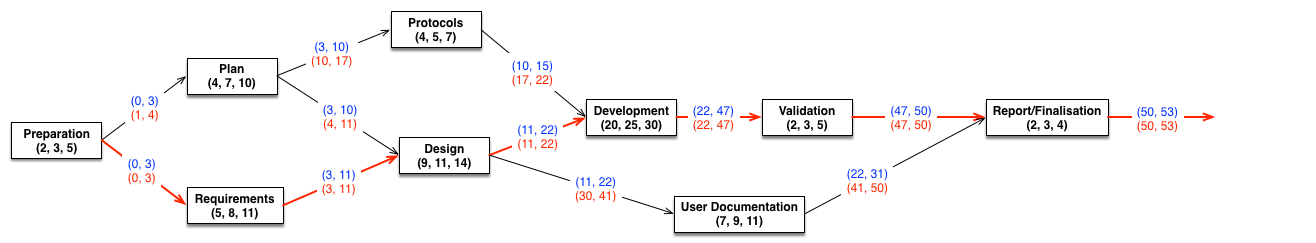
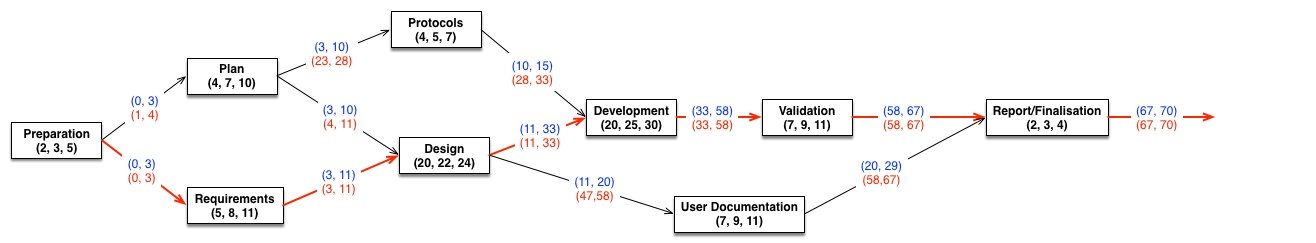
fix pert chart

diff --git a/quality-manual/documentation/project-plan/task-times.md b/quality-manual/documentation/project-plan/task-times.md
@@ -21,15 +21,14 @@ This document gives an approximate optimistic-realistic-pessimistic estimation f
 | Non-Functional           | 3          | 6         | 9           |
 | Domain                   | 1          | 2         | 3           |
 | __Design__               |            |           |             |
-| High-Level               | 4          | 6         | 9           |
-| Low-Level                | 9          | 11        | 14          |
+| High -> Low-Level        | 20         | 22        | 24          |
 | __Development__          |            |           |             |
 | Programming              | 20         | 25        | 30          |
 | Documentation            | 5          | 7         | 9           |
 | Unit Testing             | 10         | 12        | 14          |
 | __Validation__           |            |           |             |
-| Component Testing        | 2          | 3         | 5           |
-| __Finalisation__         |            |           |             |
+| Component Testing        | 7          | 9         | 11          |
+| __Other__                |            |           |             |
 | User Documentation       | 7          | 9         | 11          |
 | Report                   | 2          | 3         | 4           |
 
@@ -39,6 +38,20 @@ The PERT chart below shows the main phases of the project. It is assumed that th
 
 ![pert-chart](pert.png)
 
-The project was started by the group on 18/02/2016. This means, assuming each phase on the critical path is completed in exactly the above 'realistic' number of days, the completion date of the project should be 11/04/2016. This gives `TODO` days of freedom in the critical path before the project deadline.
+The project was started by the group on 18/02/2016. This means, assuming each phase on the critical path is completed in exactly the above 'realistic' number of days, the completion date of the project should be 28/05/2016. This gives 8 days of freedom in the critical path before the project deadline.
 
-//TODO: probably overly optimistic with completion times, re-calculate with longer time estimates.
+## Milestones
+
+From the above PERT chart, milestone goals are:
+
+| Task                              | Date               |
+| ----------------------------------|--------------------|
+| Preparation Complete              | 28/02/2016         |
+| Plan Complete                     | 07/03/2016         |
+| Requirements Complete             | 07/03/2016         |
+| Design Complete                   | 29/03/2016         |
+| Protocols Complete                | 29/03/2016         |
+| Development Complete              | 23/04/2016         |
+| Validation Complete               | 02/05/2016         |
+| User Documentation Complete       | 02/05/2016         |
+| Report/Finalisation Complete      | 05/05/2016         |
